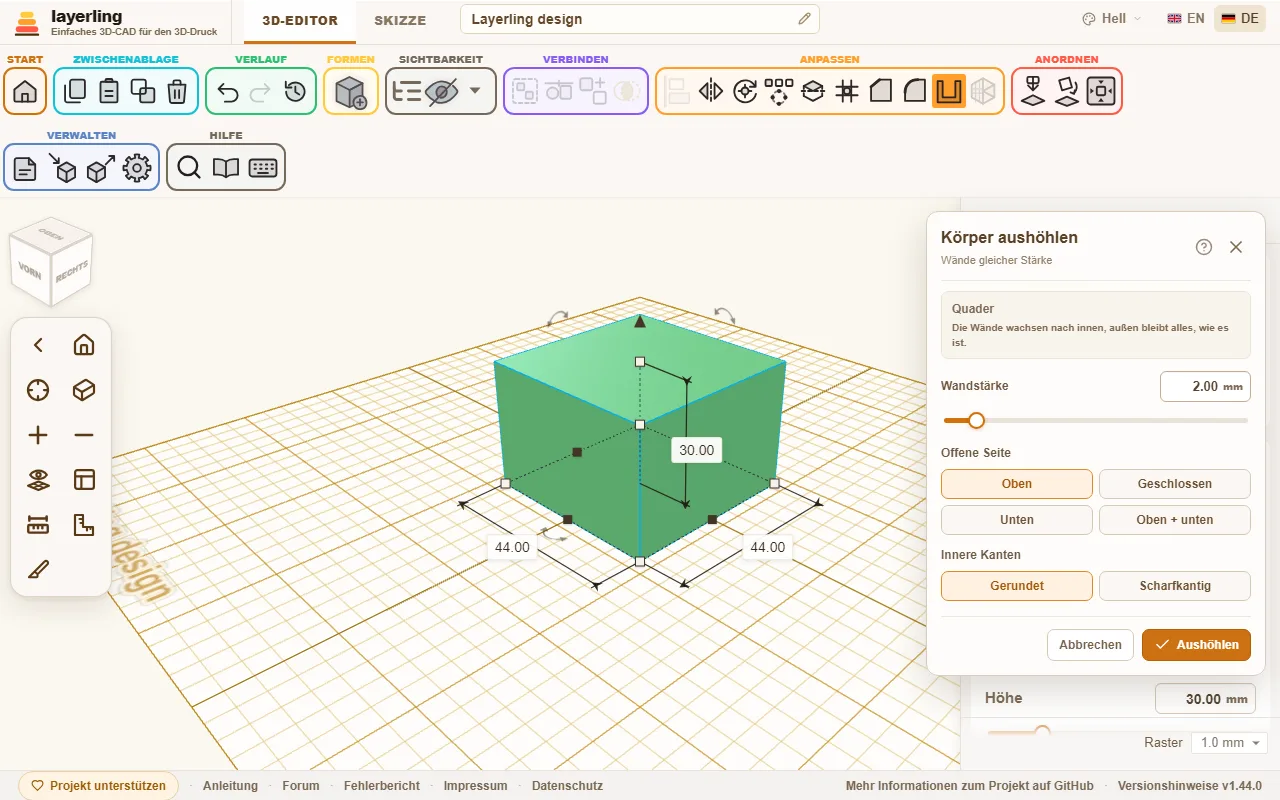
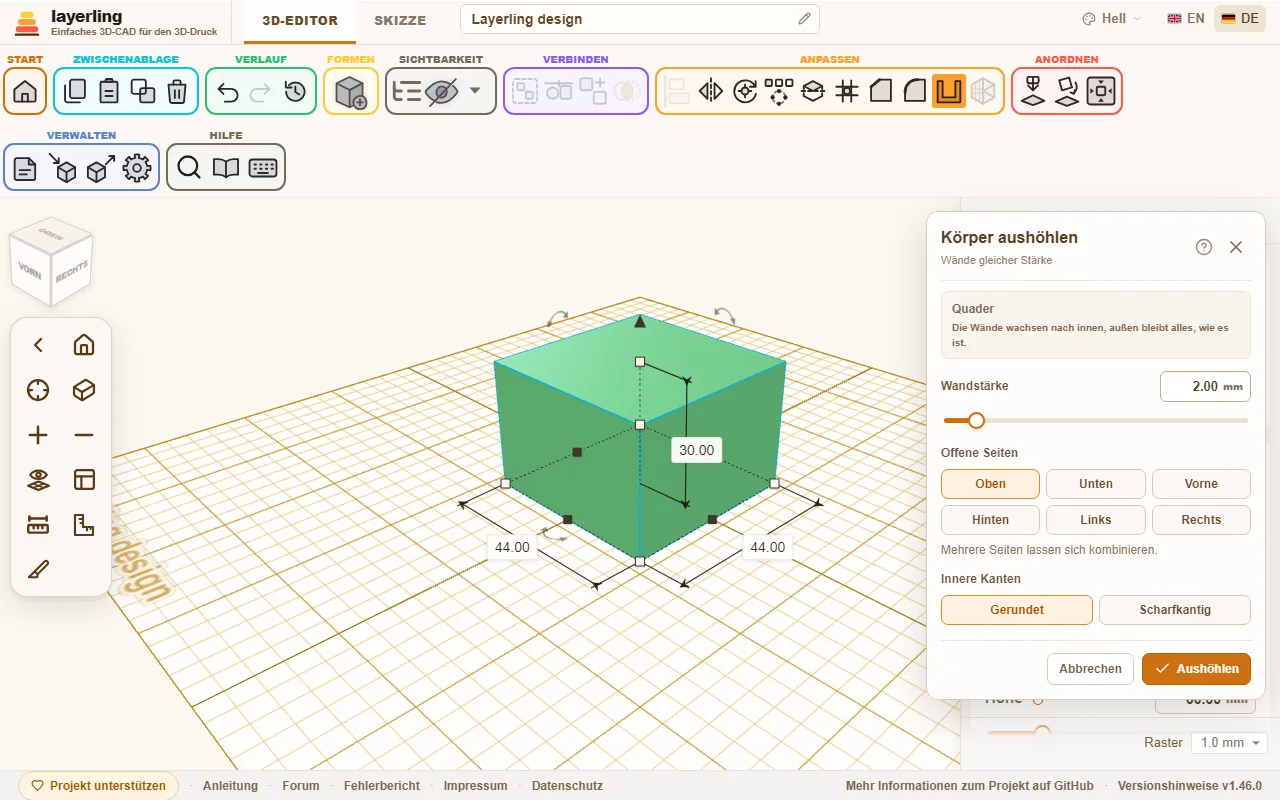
Guide pictures for the open sides of Hollow and Multicolor, new sketch and hollow panel pictures; quick guide texts for the new features

Changed region(s): [[0.7188, 0.5625, 1.0, 0.875]]

diff --git a/apps/web/src/lib/messages.de.ts b/apps/web/src/lib/messages.de.ts
@@ -449,10 +449,10 @@ export const MESSAGES_DE: Record<MessageKey, string> = {
   "guide.close": "Kurzanleitung schließen",
   "guide.footer": "Die Tasten dazu: der Knopf mit der Tastatur daneben.",
   "guide.group.view": "Sich bewegen",
-  "guide.view.orbit": "Die rechte Maustaste dreht die Ansicht, die mittlere verschiebt sie, das Rad zoomt. Mit Strg verschiebt auch die linke. Ein kurzer Rechtsklick auf einen Körper öffnet ein Menü mit den häufigsten Befehlen.",
+  "guide.view.orbit": "Die rechte Maustaste dreht die Ansicht, die mittlere verschiebt sie, das Rad zoomt. Mit Strg verschiebt auch die linke. Ein kurzer Rechtsklick auf einen Körper öffnet ein Menü mit den häufigsten Befehlen. Ist nichts gewählt, drehen auch die Pfeiltasten die Ansicht.",
   "guide.view.touch": "Auf einem Berührungsbildschirm tun das zwei Finger: spreizen zoomt, gemeinsam schieben verschiebt die Ansicht. Der Umschalter in der Kameraleiste lässt einen Finger drehen.",
   "guide.view.cube": "Der Würfel in der Ecke springt auf gerade Ansichten, Ziehen an ihm dreht die Ansicht, das Haus holt die ganze Szene zurück ins Bild. Die Tasten 1 bis 6 springen ebenfalls, mit Umschalt zoomen sie dabei auf die Auswahl.",
-  "guide.view.panels": "Objektliste, Einstellungen und die Werkzeugfenster lassen sich an ihrer Titelleiste wegziehen, wenn sie etwas verdecken; ein Doppelklick dockt sie wieder an.",
+  "guide.view.panels": "Objektliste, Einstellungsfenster, Anleitungen und die Werkzeugfenster lassen sich an ihrer Titelleiste wegziehen, wenn sie etwas verdecken; ein Doppelklick dockt sie wieder an.",
   "guide.view.projection": "Der Würfelknopf neben den Zoomtasten wechselt zwischen normaler und flacher, orthografischer Ansicht. Das Auge über dem Gitter darunter blendet die Platte aus, damit du die Unterseite von unten siehst.",
   "guide.view.section": "Der Schnitt-Knopf (das Schnittwerkzeug) ganz unten in der linken Leiste schneidet die Ansicht entlang einer Ebene auf, um Wände und Hohlräume zu sehen. Es ist nur eine Ansicht: Entwurf und Export bleiben ganz. „Schnitt als SVG“ speichert die Umrisse auf der Ebene im Maßstab 1:1, etwa für einen Laser. „Messen“ misst direkt auf dem Schnitt: zwei Klicks auf den blauen Umriss, und ein Klick irgendwo an der Gegenwand ergibt die Wandstärke im rechten Winkel. Das Fenster lässt sich an seiner Titelleiste verschieben.",
   "guide.group.workplane": "Arbeitsebene",
@@ -469,9 +469,9 @@ export const MESSAGES_DE: Record<MessageKey, string> = {
   "guide.group.select": "Auswählen und ordnen",
   "guide.select.click": "Klicken wählt aus, Shift nimmt dazu, ein Klick ins Leere hebt die Auswahl auf.",
   "guide.select.position": "Unter Position im Eigenschaftenfenster tippst du ein, wo ein Körper steht: X und Y auf der Platte, Z als Höhe seiner Unterkante.",
-  "guide.select.group": "Gruppiere, was zusammengehört, sperre, was liegen bleiben soll, blende aus, was im Weg ist - alles im Menüband. Bündeln (Strg+B) hält Teile nur zusammen, ohne sie zu verrechnen: Farben bleiben, etwa für den Mehrfarbdruck.",
+  "guide.select.group": "Gruppiere, was zusammengehört, sperre, was liegen bleiben soll, blende aus, was im Weg ist - alles im Menüband. Bündeln (Strg+B) hält Teile nur zusammen, ohne sie zu verrechnen: Farben bleiben, etwa für den Mehrfarbdruck. Auch eine Gruppe zeigt jedes Teil in seiner Farbe, wenn du in ihren Einstellungen „Mehrfarbig“ einschaltest.",
   "guide.select.align": "Ausrichten legt mehrere Körper an eine Kante oder Mitte, Spiegeln kippt die Auswahl an einer Ebene (links-rechts, vorn-hinten oder oben-unten). Für eine gespiegelte Kopie erst duplizieren.",
-  "guide.select.pivot": "Drehpunkt setzen, dann eine Fläche anklicken: Eine ebene Fläche gibt ihren Mittelpunkt vor, etwa die Achse eines Rohrendes. Die Auswahl dreht sich danach um diesen Punkt statt um ihre Mitte - so bleibt ein gekipptes Rohrende auf seiner Achse. Ein zweiter Klick auf das Werkzeug oder eine neue Auswahl hebt ihn wieder auf.",
+  "guide.select.pivot": "Drehpunkt setzen, dann eine Fläche anklicken: Eine ebene Fläche gibt ihren Mittelpunkt vor, etwa die Achse eines Rohrendes. Die Auswahl dreht sich danach um diesen Punkt statt um ihre Mitte - so bleibt ein gekipptes Rohrende auf seiner Achse. Ist ein Körper gewählt, bleibt der Drehpunkt an diesem Körper hängen; bei mehreren gilt er nur für diese Auswahl. Ein zweiter Klick auf das Werkzeug hebt ihn wieder auf.",
   "guide.select.layFlat": "Auf Fläche legen (unter Anordnen), dann eine Fläche der Auswahl anklicken: Die Fläche unter dem Zeiger leuchtet schon vor dem Klick auf, und der Körper dreht sich so, dass sie unten auf der Arbeitsebene liegt - praktisch, um ein Teil für den Druck auf seine beste Seite zu legen.",
   "guide.select.pattern": "Muster wiederholt die Auswahl n-mal in einer Reihe oder im Kreis - für Lochraster, Lochkreise und Zahnkränze. Die Kopien erscheinen als Vorschau, erst „Erzeugen\" legt sie an.",
   "guide.select.overhangs": "Überhänge zeigen (im Menü neben dem Auge) schraffiert jede Fläche rot-weiß, die steiler als 45° überhängt und beim Druck Stützen bräuchte. Den Winkel stellst du in den Einstellungen unter Darstellung ein.",
@@ -499,7 +499,7 @@ export const MESSAGES_DE: Record<MessageKey, string> = {
   "guide.sketchDraw.close": "Zum Schließen den ersten Punkt noch einmal anklicken. Esc beendet eine Linienkette.",
   "guide.sketchGroup.edit": "Auswählen und ändern",
   "guide.sketchEdit.select": "„Auswählen“ verschiebt Punkte und Linien (ziehen, oder mit den Pfeiltasten in feinen Schritten; Umschalt beim Ziehen hält die Bewegung auf einer Achse); Umschalt+Klick nimmt einen Punkt oder eine Linie dazu oder wieder weg, und ein Klick in einen geschlossenen Umriss wählt ihn ganz. „Punkte setzen oder entfernen“ setzt mit einem Klick auf einen Abschnitt einen Punkt und entfernt mit einem Klick auf einen Punkt; „Radieren“ löscht.",
-  "guide.sketchEdit.corner": "Ein Klick auf einen Eckpunkt bietet dafür „Ecke verrunden“ und „Ecke fasen“ an. R dreht einen geschlossenen Umriss um 45 Grad.",
+  "guide.sketchEdit.corner": "Ein Klick auf einen Eckpunkt bietet dafür „Ecke verrunden“ und „Ecke fasen“ an; wo zwei gerade Linien zusammentreffen, zeigt er auch den Winkel dazwischen: Klick auf den Wert, um einen neuen einzutippen (Tab wechselt die Linie, die sich dreht). R dreht einen geschlossenen Umriss um 45 Grad.",
   "guide.sketchGroup.clipboard": "Zwischenablage",
   "guide.sketchClipboard.use": "Kopieren, Ausschneiden (Strg+X), Einfügen und Duplizieren (Strg+D) wirken auf die Auswahl. Die Kopie landet auf einem freien Platz neben dem Original und wird deshalb nicht mit ihm verbunden.",
   "guide.sketchGroup.view": "Sich bewegen und messen",
@@ -507,7 +507,7 @@ export const MESSAGES_DE: Record<MessageKey, string> = {
   "guide.sketchView.measure": "Das Massband in der Seitenleiste misst zwischen zwei Punkten. Ein Klick auf eine Linie oder einen Punkt zeigt deren Längen; bei einer geraden Linie lässt sich die Länge in der Maßblase eintippen.",
   "guide.sketchGroup.finish": "Einen Körper daraus machen",
   "guide.sketchFinish.body": "„Skizze abschließen“ macht aus einem geschlossenen Umriss einen Körper. Beim Rotieren zeichnest du den halben Querschnitt links von der Achse und nimmst „Rotation abschließen“.",
-  "guide.sketchFinish.edit": "„Skizze bearbeiten“ am Körper bringt dich hierher zurück. Kantenbehandlungen, die du daran gemacht hast, gehen dabei verloren, weil die Kanten neu entstehen.",
+  "guide.sketchFinish.edit": "„Skizze bearbeiten“ am Körper oder ein Doppelklick darauf bringt dich hierher zurück. Kantenbehandlungen, die du daran gemacht hast, gehen dabei verloren, weil die Kanten neu entstehen.",
   "guide.group.files": "Sichern und weitergeben",
   "guide.files.autosave": "Entwürfe und Exporte werden zu 100 % lokal in deinem Browser berechnet und gesichert. Kein Konto, keine Daten werden hochgeladen.",
   "guide.files.project": "LYL ist layerlings eigenes Entwurfsformat: der ganze Entwurf samt Verlauf in einer Datei. Ältere .skf-Dateien öffnen weiterhin.",

diff --git a/apps/web/src/lib/messages.en.ts b/apps/web/src/lib/messages.en.ts
@@ -450,10 +450,10 @@ export const MESSAGES_EN = {
   "guide.close": "Close the quick guide",
   "guide.footer": "The keys for all of this: the keyboard button beside this one.",
   "guide.group.view": "Moving around",
-  "guide.view.orbit": "The right mouse button turns the view, the middle one shifts it, the wheel zooms. Ctrl and the left button shift it too. A short right click on a body opens a menu with the most used commands.",
+  "guide.view.orbit": "The right mouse button turns the view, the middle one shifts it, the wheel zooms. Ctrl and the left button shift it too. A short right click on a body opens a menu with the most used commands. With nothing selected the arrow keys turn the view as well.",
   "guide.view.touch": "On a touch screen two fingers do the same: spread them to zoom, move them together to shift the view. The switch in the camera rail lets one finger turn it.",
   "guide.view.cube": "The cube in the corner jumps to straight-on views, dragging it turns the view, and the house button fits the whole scene back into the picture. Keys 1 to 6 jump as well, and with Shift they also zoom to the selection.",
-  "guide.view.panels": "The object list, the settings and the tool panels can be dragged away by their title bar when they cover something; a double-click docks them again.",
+  "guide.view.panels": "The object list, the settings window, the guides and the tool panels can be dragged away by their title bar when they cover something; a double-click docks them again.",
   "guide.view.projection": "The cube button beside the zoom controls switches between the normal view and a flat, orthographic one. The eye over a grid below it hides the plate, so you can see the underside from below.",
   "guide.view.section": "The section button (the cut tool) at the bottom of the left bar cuts the view open along a plane, to see walls and cavities. It is only a view: the design and its exports stay whole. \"Section as SVG\" saves the outlines on the plane at 1:1, for a laser for instance. \"Measure\" measures right on the cut: two clicks on the blue outline, and a click anywhere on the opposite wall gives the wall thickness square to it. The panel moves by its title bar.",
   "guide.group.workplane": "Workplane",
@@ -470,9 +470,9 @@ export const MESSAGES_EN = {
   "guide.group.select": "Selecting and ordering",
   "guide.select.click": "Click to select, hold Shift to add, click empty space to let go.",
   "guide.select.position": "Under Position in the properties panel you type where a body stands: X and Y on the plate, Z as the height of its underside.",
-  "guide.select.group": "Group what belongs together, lock what should stay put, hide what is in the way - all in the ribbon. Bundle (Ctrl+B) only holds parts together without merging them: colours stay, for multicolour prints for instance.",
+  "guide.select.group": "Group what belongs together, lock what should stay put, hide what is in the way - all in the ribbon. Bundle (Ctrl+B) only holds parts together without merging them: colours stay, for multicolour prints for instance. A group shows every part in its own colour too once \"Multicolor\" is switched on in its settings.",
   "guide.select.align": "Align lays several bodies out along one edge or centre; Mirror flips the selection across a plane (left-right, front-back or top-bottom). For a mirrored copy, duplicate first.",
-  "guide.select.pivot": "Set rotation pivot, then click a face: a flat face gives its centre, such as the axis of a pipe end. The selection then turns around that point instead of its own centre - a tilted pipe end stays on its axis. Clicking the tool again, or selecting something else, removes it.",
+  "guide.select.pivot": "Set rotation pivot, then click a face: a flat face gives its centre, such as the axis of a pipe end. The selection then turns around that point instead of its own centre - a tilted pipe end stays on its axis. With one body selected, the pivot stays with that body; with several it only holds for that selection. Clicking the tool again removes it.",
   "guide.select.layFlat": "Lay flat on face (under Arrange), then click a face of the selection: the face under the pointer lights up before you click, and the body turns so that face rests on the workplane - handy for putting a part on its best side for printing.",
   "guide.select.pattern": "Pattern repeats the selection n times in a row or around a circle - for hole grids, bolt circles and toothed rings. The copies show as a preview; only \"Create\" adds them.",
   "guide.select.overhangs": "Show overhangs (in the menu next to the eye) hatches every face red and white that overhangs more steeply than 45° and would need supports in print. Set the angle in the settings under Appearance.",
@@ -500,7 +500,7 @@ export const MESSAGES_EN = {
   "guide.sketchDraw.close": "Click the first point again to close the outline. Esc ends a line chain.",
   "guide.sketchGroup.edit": "Selecting and editing",
   "guide.sketchEdit.select": "\"Select\" moves points and lines (drag, or the arrow keys for fine steps; Shift while dragging keeps the move on one axis); Shift+click adds a point or line or takes it away, and a click inside a closed outline selects all of it. \"Add or Remove Points\" adds a point with a click on a section and removes one with a click on a point; \"Erase\" deletes.",
-  "guide.sketchEdit.corner": "A click on a corner point offers \"Fillet corner\" and \"Chamfer corner\" for it. R turns a closed outline by 45 degrees.",
+  "guide.sketchEdit.corner": "A click on a corner point offers \"Fillet corner\" and \"Chamfer corner\" for it, and where two straight lines meet it shows the angle between them: click the value to type a new one (Tab switches the line that turns). R turns a closed outline by 45 degrees.",
   "guide.sketchGroup.clipboard": "Clipboard",
   "guide.sketchClipboard.use": "Copy, cut (Ctrl+X), paste and duplicate (Ctrl+D) work on the selection. The copy lands on a free spot beside the original, so it is not joined to it.",
   "guide.sketchGroup.view": "Moving around and measuring",
@@ -508,7 +508,7 @@ export const MESSAGES_EN = {
   "guide.sketchView.measure": "The tape measure in the side bar measures between two points. A click on a line or a point shows its lengths; on a straight line you can type the length into its dimension pill.",
   "guide.sketchGroup.finish": "Making a body",
   "guide.sketchFinish.body": "\"Finish sketch\" turns a closed outline into a body. When revolving, draw half the cross-section to the left of the axis and use \"Finish revolve\".",
-  "guide.sketchFinish.edit": "\"Edit sketch\" on the body brings you back here. Edge treatments you made on it are lost, because the edges are created anew.",
+  "guide.sketchFinish.edit": "\"Edit sketch\" on the body, or a double click on it, brings you back here. Edge treatments you made on it are lost, because the edges are created anew.",
   "guide.group.files": "Saving and sharing",
   "guide.files.autosave": "Designs and exports are computed and saved 100% locally in your browser. No account, nothing is uploaded.",
   "guide.files.project": "LYL is layerling's own design format: the whole design including history in one file. Older .skf files still open.",

diff --git a/docs/guide/de/03-formen.md b/docs/guide/de/03-formen.md
@@ -40,6 +40,8 @@ Die Einstellungen sind am rechten Rand angedockt. Verdecken sie etwas, ziehst du
 - **{{ui:inspector.taper}}:** Oben und unten unterschiedlich groß, zum Beispiel für eine Schräge oder einen Trichter.
 - **{{ui:inspector.twist}}:** Verdreht die Oberseite gegen die Unterseite oder schiebt sie zur Seite. So entstehen gedrehte Säulen und geneigte Türme.
 
+![Eine Gruppe aus einem orangen Block, einem blauen Zapfen und einer Aussparung, zu einem Körper verrechnet. Mit Mehrfarbig bleibt der Zapfen blau, der Block orange, und die Wände der Aussparung nehmen die Farbe des Blocks an.](shot:group-multicolor)
+
 Verjüngen und Verdrehen gibt es bei fast allen Formen. Nur Zahnrad, Gewinde, Feder, Rändel, Scharnier, Pyramide, gebogenes Rohr, Tropfen, Senkungen und Lineal haben sie nicht: Diese Formen haben ihre eigenen festen Maße oder, wie die Pyramide, schon eine eigene Oberseite.
 
 ![Ein Kegel, bei dem Radius oben und Höhe geändert wurden: Ein kleiner Pfeil neben jedem Wert holt ihn zurück, und die beiden Knöpfe unten speichern oder setzen die Vorgaben der Form zurück.](shot:property-reset)

diff --git a/docs/guide/en/03-shapes.md b/docs/guide/en/03-shapes.md
@@ -39,6 +39,8 @@ The settings sit docked at the right edge. If they cover something you want to s
 - **{{ui:inspector.taper}}:** Different sizes at the top and bottom, for example for a slope or a funnel.
 - **{{ui:inspector.twist}}:** Twists the top against the bottom or shifts it sideways. That gives twisted columns and leaning towers.
 
+![A group of an orange block, a blue peg and a hole, cut into one body. With Multicolor switched on, the peg stays blue, the block orange, and the walls of the hole take the block's colour.](shot:group-multicolor)
+
 Taper and twist work on almost every shape. Only the gear, thread, spring, knurl, hinge, pyramid, bent tube, teardrop, the screw-head cutters and the ruler leave them out: they have fixed measures of their own or, like the pyramid, a top of their own already.
 
 ![A cone whose top radius and height were changed: a small arrow next to each takes the value back, and the two buttons at the bottom save or reset the defaults of the shape.](shot:property-reset)

diff --git a/docs/guide/de/06-kanten-und-aushoehlen.md b/docs/guide/de/06-kanten-und-aushoehlen.md
@@ -51,11 +51,13 @@ Dosen, Becher, Gehäuse und Abdeckungen haben eines gemeinsam: Sie sind innen le
 4. Entscheide, ob die {{ui:shell.edges}} {{ui:shell.edges.round}} oder {{ui:shell.edges.sharp}} sein sollen.
 5. Klicke auf {{ui:shell.apply}}.
 
-![Das Aushöhlen-Fenster mit Wandstärke und offener Seite.](shot:hollow-panel)
+![Das Aushöhlen-Fenster mit Wandstärke, einem Schalter für jede Seite, die offen bleibt, und den inneren Kanten.](shot:hollow-panel)
 
 Die Wände wachsen nach innen. Außen bleibt alles, wie es ist.
 
 ![Das Ergebnis: eine Schale mit 3 mm Wand, oben offen.](shot:hollow-result)
+
+![Derselbe Quader, nur an der Vorderseite offen: ein Schlitz für eine Schublade.](shot:hollow-sides)
 
 Für jede offene Seite braucht der Körper ganz außen auf dieser Seite eine ebene Fläche. Kugeln und freie Formen lassen sich deshalb so nicht aushöhlen. Wenn die Wand zu dick für den Körper ist, meldet layerling das und bittet um eine dünnere.
 

diff --git a/docs/guide/en/06-edges-and-hollowing.md b/docs/guide/en/06-edges-and-hollowing.md
@@ -51,11 +51,13 @@ Boxes, cups, cases and covers have one thing in common: they are empty inside, w
 4. Decide whether the {{ui:shell.edges}} should be {{ui:shell.edges.round}} or {{ui:shell.edges.sharp}}.
 5. Click {{ui:shell.apply}}.
 
-![The hollowing panel with wall thickness and open side.](shot:hollow-panel)
+![The hollowing panel with wall thickness, a switch for each side that stays open, and the inner edges.](shot:hollow-panel)
 
 The walls grow inward. The outside stays as it is.
 
 ![The result: a shell with a 3 mm wall, open at the top.](shot:hollow-result)
+
+![The same box with only the front side open: a slot for a drawer.](shot:hollow-sides)
 
 For every open side, the body needs a flat face at its very edge on that side. Spheres and free-form shapes therefore cannot be hollowed this way. If the wall is too thick for the body, layerling tells you and asks for a thinner one.
 

diff --git a/docs/guide/de/07-skizzen.md b/docs/guide/de/07-skizzen.md
@@ -27,7 +27,7 @@ Das Menüband des Skizzenmodus ist in Bereiche geteilt:
 
 Ein Körper entsteht nur aus einem **geschlossenen** Umriss.
 
-![Ein L-förmiger Umriss. Am gewählten Eckpunkt oben links stehen die Längen der beiden Linien in Millimetern.](shot:sketch-outline)
+![Ein L-förmiger Umriss. Am gewählten Eckpunkt oben links stehen die Längen der beiden Linien in Millimetern und der Winkel dazwischen in Grad.](shot:sketch-outline)
 
 ## Winkel ablesen und eintippen
 

diff --git a/docs/guide/en/07-sketches.md b/docs/guide/en/07-sketches.md
@@ -27,7 +27,7 @@ The ribbon in sketch mode is divided into areas:
 
 A body comes only from a **closed** outline.
 
-![An L-shaped outline. At the selected corner point, top left, the lengths of the two lines are shown in millimetres.](shot:sketch-outline)
+![An L-shaped outline. At the selected corner point, top left, the lengths of the two lines are shown in millimetres, and the angle between them in degrees.](shot:sketch-outline)
 
 ## Reading and typing angles
 
